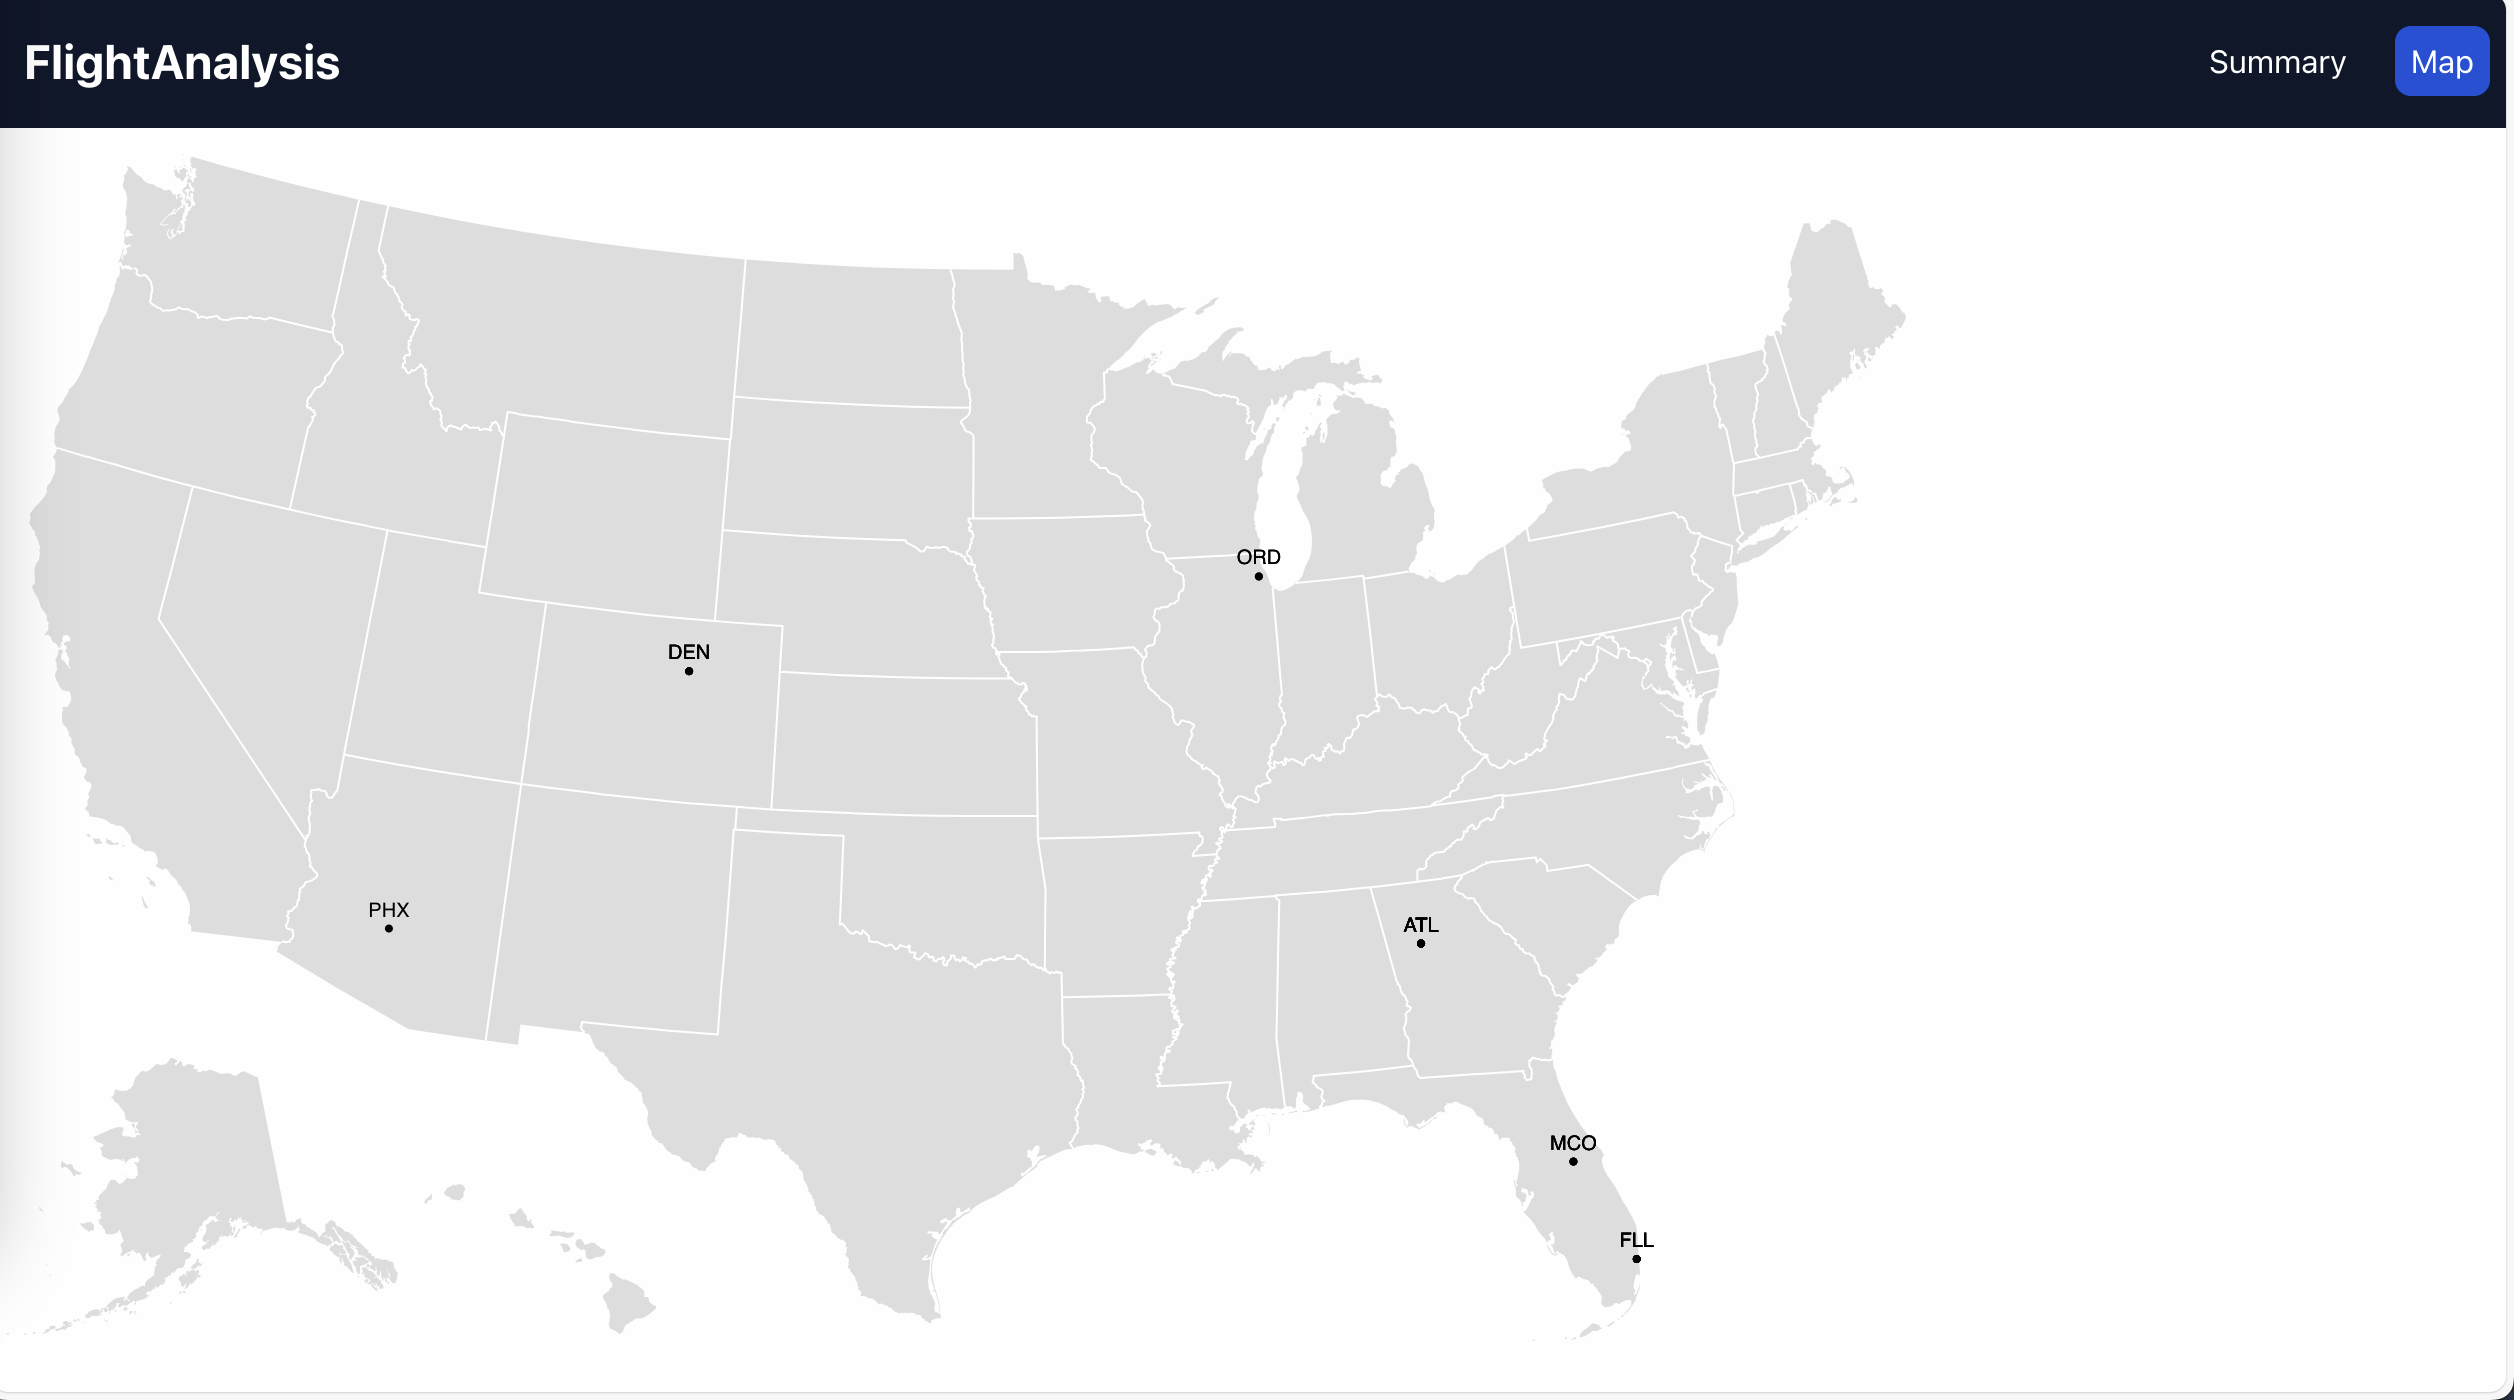
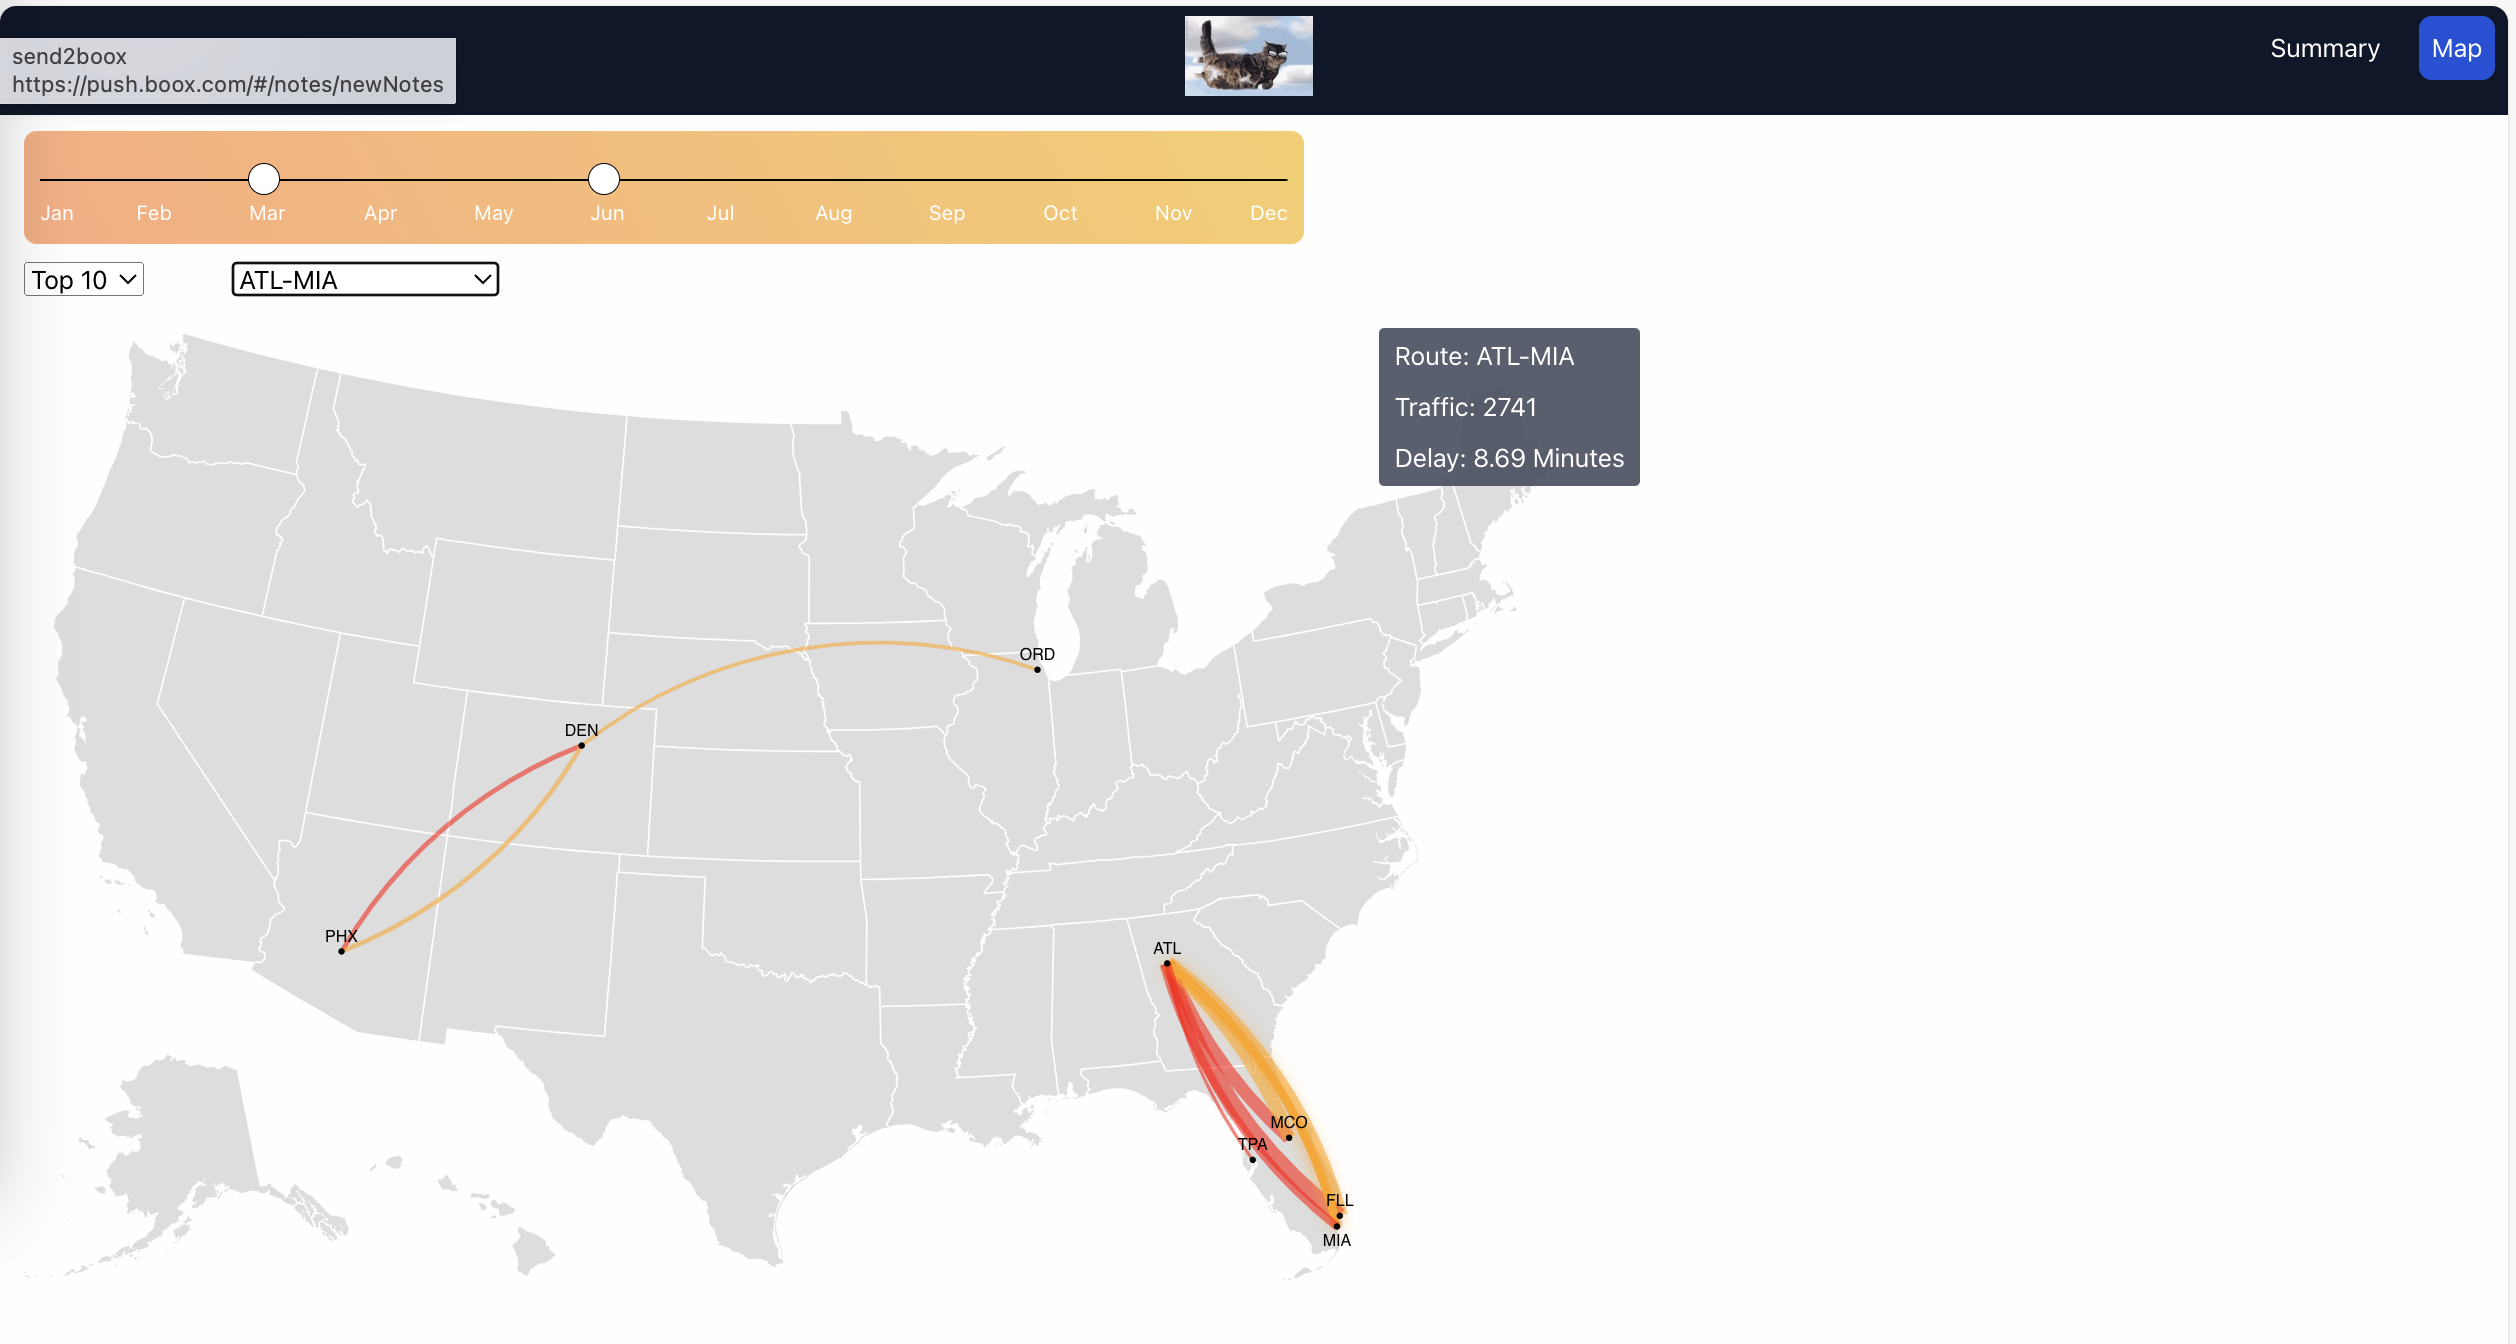
update README

diff --git a/README.md b/README.md
@@ -4,6 +4,35 @@ US 2021 airline traffic visualizaiton project.
 
 *Simon Fraser University, CMPT 767 Data Visualization, Fall 2023*
 
-![alt text](readme/1.png)
+## How to run
+
+> node version: v20.8.0
+
+```bash
+npm install
+npm start
+```
+
+## Page 1 (Home): Flight Visualization on US Map
+
+This page shows a US Map view of our data. We prepared a US map to show the flights on it. In addition to the slider we mentioned before, we also provide a dropdown menu for selecting the number of top flights to display. The flight paths displayed on the map vary in thickness based on different flight volumes, and they have different colors depending on whether the flight is outbound or inbound.
+
+
+## Page 2 (Summary): Flight Statistics by Route and Airline
+
+The initial view we incorporated is the Bubble Chart. Positioned at the top of this view is a slider, allowing users to select a specific time period for data filtering. Directly below, the primary graph unfolds, featuring bubbles within the main canvas, each adorned with text denoting the corresponding route. These bubbles are distinguished by varying colors, with the intensity of the color indicating the minutes of delay on the respective route.
+
+The second view is a stream graph that illustrates a comparison of flight volumes among the top five airlines in the US. 
+
+![alt text](readme/1.png) 
 ![alt text](readme/2.png)
+*Route Traffic - Map View*
+
 ![alt text](readme/3.png)
+*Route Traffic - Bubble Chart*
+
+![alt text](readme/4.png)
+*Airline Traffic - Bar Chart*
+
+![alt text](readme/5.png)
+*Airline Traffic - Stream Chart*
